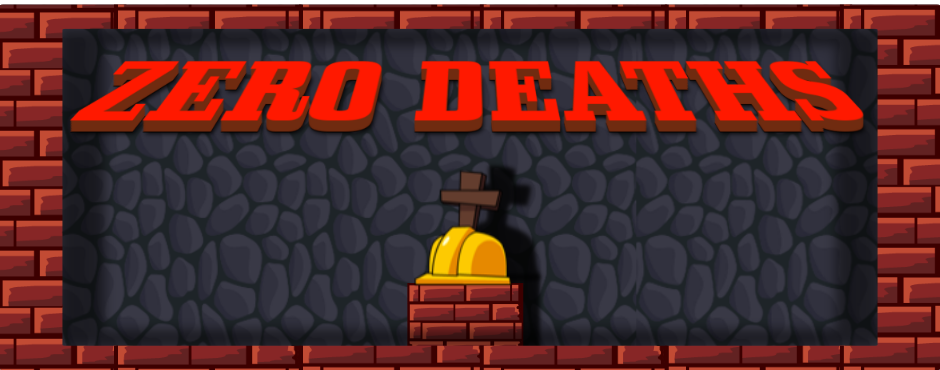
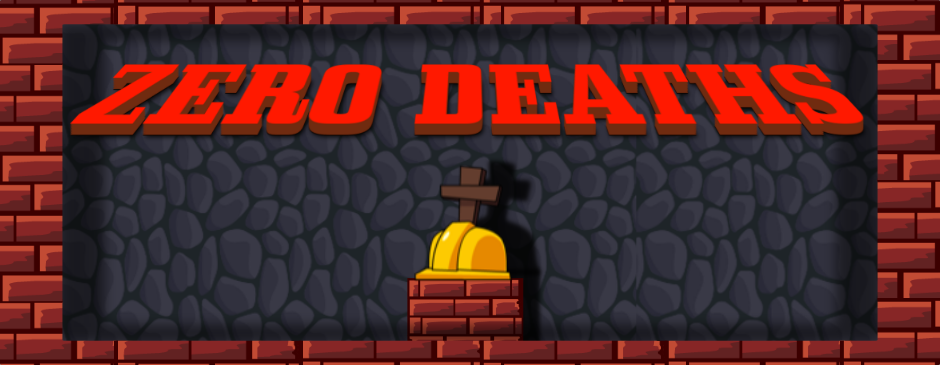
added new assets and implemented them

diff --git a/src/Assets/index.js b/src/Assets/index.js
@@ -10,102 +10,121 @@ import youtube from './Icons/youtube.png';
 import logo from './logo.png';
 
 import babyPhoneCover from './Games/BabyPhone/BabyPhoneCover.png';
+import babyPhoneCoverSmall from './Games/BabyPhone/BabyPhoneCoverSmall.png';
 import babyPhone1 from './Games/BabyPhone/BabyPhone1.png';
 import babyPhone2 from './Games/BabyPhone/BabyPhone2.png';
 import babyPhone3 from './Games/BabyPhone/BabyPhone3.png';
 import babyPhone4 from './Games/BabyPhone/BabyPhone4.png';
 
 import balkanRoadsCover from './Games/BalkanRoads/BalkanRoadsCover.png';
+import balkanRoadsCoverSmall from './Games/BalkanRoads/BalkanRoadsCoverSmall.png';
 import balkanRoads1 from './Games/BalkanRoads/BalkanRoads1.png';
 import balkanRoads2 from './Games/BalkanRoads/BalkanRoads2.png';
 import balkanRoads3 from './Games/BalkanRoads/BalkanRoads3.png';
 
 import bankEscapeCover from './Games/BankEscape/BankEscapeCover.png';
+import bankEscapeCoverSmall from './Games/BankEscape/BankEscapeCoverSmall.png';
 import bankEscape1 from './Games/BankEscape/BankEscape1.png';
 import bankEscape2 from './Games/BankEscape/BankEscape2.png';
 import bankEscape3 from './Games/BankEscape/BankEscape3.png';
 import bankEscape4 from './Games/BankEscape/BankEscape4.png';
 
 import bigBenCover from './Games/BigBen/BigBenCover.png';
+import bigBenCoverSmall from './Games/BigBen/BigBenCoverSmall.png';
 import bigBen1 from './Games/BigBen/BigBen1.png';
 import bigBen2 from './Games/BigBen/BigBen2.png';
 import bigBen3 from './Games/BigBen/BigBen3.png';
 
 import cowboyDuelCover from './Games/CowboyDuel/CowboyDuelCover.png';
+import cowboyDuelCoverSmall from './Games/CowboyDuel/CowboyDuelCoverSmall.png';
 import cowboyDuel1 from './Games/CowboyDuel/CowboyDuel1.png';
 import cowboyDuel2 from './Games/CowboyDuel/CowboyDuel2.png';
 import cowboyDuel3 from './Games/CowboyDuel/CowboyDuel3.png';
 
 import doodleFidgetSpinnerCover from './Games/DoodleFidgetSpinner/DoodleFidgetSpinnerCover.png';
+import doodleFidgetSpinnerCoverSmall from './Games/DoodleFidgetSpinner/DoodleFidgetSpinnerCoverSmall.png';
 import doodleFidgetSpinner1 from './Games/DoodleFidgetSpinner/DoodleFidgetSpinner1.png';
 import doodleFidgetSpinner2 from './Games/DoodleFidgetSpinner/DoodleFidgetSpinner2.png';
 import doodleFidgetSpinner3 from './Games/DoodleFidgetSpinner/DoodleFidgetSpinner3.png';
 import doodleFidgetSpinner4 from './Games/DoodleFidgetSpinner/DoodleFidgetSpinner4.png';
 
 import eMojiMachineCover from './Games/EMojiMachine/EMojiMachineCover.png';
+import eMojiMachineCoverSmall from './Games/EMojiMachine/EMojiMachineCoverSmall.png';
 import eMojiMachine1 from './Games/EMojiMachine/EMojiMachine1.png';
 import eMojiMachine2 from './Games/EMojiMachine/EMojiMachine2.png';
 import eMojiMachine3 from './Games/EMojiMachine/EMojiMachine3.png';
 import eMojiMachine4 from './Games/EMojiMachine/EMojiMachine4.png';
 
 import fiveSecondsStressTestCover from './Games/FiveSecondsStressTest/FiveSecondsStressTestCover.png';
+import fiveSecondsStressTestCoverSmall from './Games/FiveSecondsStressTest/FiveSecondsStressTestCoverSmall.png';
 import fiveSecondsStressTest1 from './Games/FiveSecondsStressTest/FiveSecondsStressTest1.png';
 import fiveSecondsStressTest2 from './Games/FiveSecondsStressTest/FiveSecondsStressTest2.png';
 
 import gastarbajterCover from './Games/Gastarbajter/GastarbajterCover.png';
+import gastarbajterCoverSmall from './Games/Gastarbajter/GastarbajterCoverSmall.png';
 import gastarbajter1 from './Games/Gastarbajter/Gastarbajter1.png';
 import gastarbajter2 from './Games/Gastarbajter/Gastarbajter2.png';
 import gastarbajter3 from './Games/Gastarbajter/Gastarbajter3.png';
 
 import godVsStickmanCover from './Games/GodVsStickman/GodVsStickmanCover.png';
+import godVsStickmanCoverSmall from './Games/GodVsStickman/GodVsStickmanCoverSmall.png';
 import godVsStickman1 from './Games/GodVsStickman/GodVsStickman1.png';
 import godVsStickman2 from './Games/GodVsStickman/GodVsStickman2.png';
 import godVsStickman3 from './Games/GodVsStickman/GodVsStickman3.png';
 
 import kissTheBossCover from './Games/KissTheBoss/KissTheBossCover.png';
+import kissTheBossCoverSmall from './Games/KissTheBoss/KissTheBossCoverSmall.png';
 import kissTheBoss1 from './Games/KissTheBoss/KissTheBoss1.png';
 import kissTheBoss2 from './Games/KissTheBoss/KissTheBoss2.png';
 import kissTheBoss3 from './Games/KissTheBoss/KissTheBoss3.png';
 
 import mindReaderCover from './Games/MindReader/MindReaderCover.png';
+import mindReaderCoverSmall from './Games/MindReader/MindReaderCoverSmall.png';
 import mindReader1 from './Games/MindReader/MindReader1.png';
 import mindReader2 from './Games/MindReader/MindReader2.png';
 import mindReader3 from './Games/MindReader/MindReader3.png';
 
 import naymarChallengeCover from './Games/NaymarChallenge/NaymarChallengeCover.png';
+import naymarChallengeCoverSmall from './Games/NaymarChallenge/NaymarChallengeCoverSmall.png';
 import naymarChallenge1 from './Games/NaymarChallenge/NaymarChallenge1.png';
 import naymarChallenge2 from './Games/NaymarChallenge/NaymarChallenge2.png';
 import naymarChallenge3 from './Games/NaymarChallenge/NaymarChallenge3.png';
 import naymarChallenge4 from './Games/NaymarChallenge/NaymarChallenge4.png';
 
 import podMac555Cover from './Games/PodMac555/PodMac555Cover.png';
+import podMac555CoverSmall from './Games/PodMac555/PodMac555CoverSmall.png';
 import podMac5551 from './Games/PodMac555/PodMac5551.png';
 import podMac5552 from './Games/PodMac555/PodMac5552.png';
 import podMac5553 from './Games/PodMac555/PodMac5553.png';
 
 import podMacBatoCover from './Games/PodMacBato/PodMacBatoCover.png';
+import podMacBatoCoverSmall from './Games/PodMacBato/PodMacBatoCoverSmall.png';
 import podMacBato1 from './Games/PodMacBato/PodMacBato1.png';
 import podMacBato2 from './Games/PodMacBato/PodMacBato2.png';
 import podMacBato3 from './Games/PodMacBato/PodMacBato3.png';
 
 import santaTheLostPresentsCover from './Games/SantaTheLostPresents/SantaTheLostPresentsCover.png';
+import santaTheLostPresentsCoverSmall from './Games/SantaTheLostPresents/SantaTheLostPresentsCoverSmall.png';
 import santaTheLostPresents1 from './Games/SantaTheLostPresents/SantaTheLostPresents1.png';
 import santaTheLostPresents2 from './Games/SantaTheLostPresents/SantaTheLostPresents2.png';
 import santaTheLostPresents3 from './Games/SantaTheLostPresents/SantaTheLostPresents3.png';
 
 import theBirdsCover from './Games/TheBirds/TheBirdsCover.png';
+import theBirdsCoverSmall from './Games/TheBirds/TheBirdsCoverSmall.png';
 import theBirds1 from './Games/TheBirds/TheBirds1.png';
 import theBirds2 from './Games/TheBirds/TheBirds2.png';
 import theBirds3 from './Games/TheBirds/TheBirds3.png';
 import theBirds4 from './Games/TheBirds/TheBirds4.png';
 
 import zeroDeathsCover from './Games/ZeroDeaths/ZeroDeathsCover.png';
+import zeroDeathsCoverSmall from './Games/ZeroDeaths/ZeroDeathsCoverSmall.png';
 import zeroDeaths1 from './Games/ZeroDeaths/ZeroDeaths1.png';
 import zeroDeaths2 from './Games/ZeroDeaths/ZeroDeaths2.png';
 import zeroDeaths3 from './Games/ZeroDeaths/ZeroDeaths3.png';
 import zeroDeaths4 from './Games/ZeroDeaths/ZeroDeaths4.png';
 
 import zigZagSkyCover from './Games/ZigZagSky/ZigZagSkyCover.png';
+import zigZagSkyCoverSmall from './Games/ZigZagSky/ZigZagSkyCoverSmall.png';
 import zigZagSky1 from './Games/ZigZagSky/ZigZagSky1.png';
 import zigZagSky2 from './Games/ZigZagSky/ZigZagSky2.png';
 import zigZagSky3 from './Games/ZigZagSky/ZigZagSky3.png';
@@ -136,20 +155,40 @@ const GameCovers = [
 const SocialMediaIcons = [facebook, youtube, twitter, instagram];
 
 const LatestGamesCovers = [
-  zeroDeathsCover,
-  bigBenCover,
-  gastarbajterCover,
-  naymarChallengeCover,
-  cowboyDuelCover,
-  bankEscapeCover,
-  zigZagSkyCover,
-  theBirdsCover,
-  eMojiMachineCover
+  zeroDeathsCoverSmall,
+  bigBenCoverSmall,
+  gastarbajterCoverSmall,
+  naymarChallengeCoverSmall,
+  cowboyDuelCoverSmall,
+  bankEscapeCoverSmall,
+  zigZagSkyCoverSmall,
+  theBirdsCoverSmall,
+  eMojiMachineCoverSmall
 ];
 
 const LogoImage = logo;
 
-const AllGames = GameCovers;
+const AllGames = [
+  zeroDeathsCoverSmall,
+  gastarbajterCoverSmall,
+  naymarChallengeCoverSmall,
+  bigBenCoverSmall,
+  theBirdsCoverSmall,
+  zigZagSkyCoverSmall,
+  santaTheLostPresentsCoverSmall,
+  podMac555CoverSmall,
+  podMacBatoCoverSmall,
+  mindReaderCoverSmall,
+  kissTheBossCoverSmall,
+  godVsStickmanCoverSmall,
+  fiveSecondsStressTestCoverSmall,
+  eMojiMachineCoverSmall,
+  doodleFidgetSpinnerCoverSmall,
+  cowboyDuelCoverSmall,
+  bankEscapeCoverSmall,
+  balkanRoadsCoverSmall,
+  babyPhoneCoverSmall
+];
 
 export { LogoImage };
 export { GameCovers };
